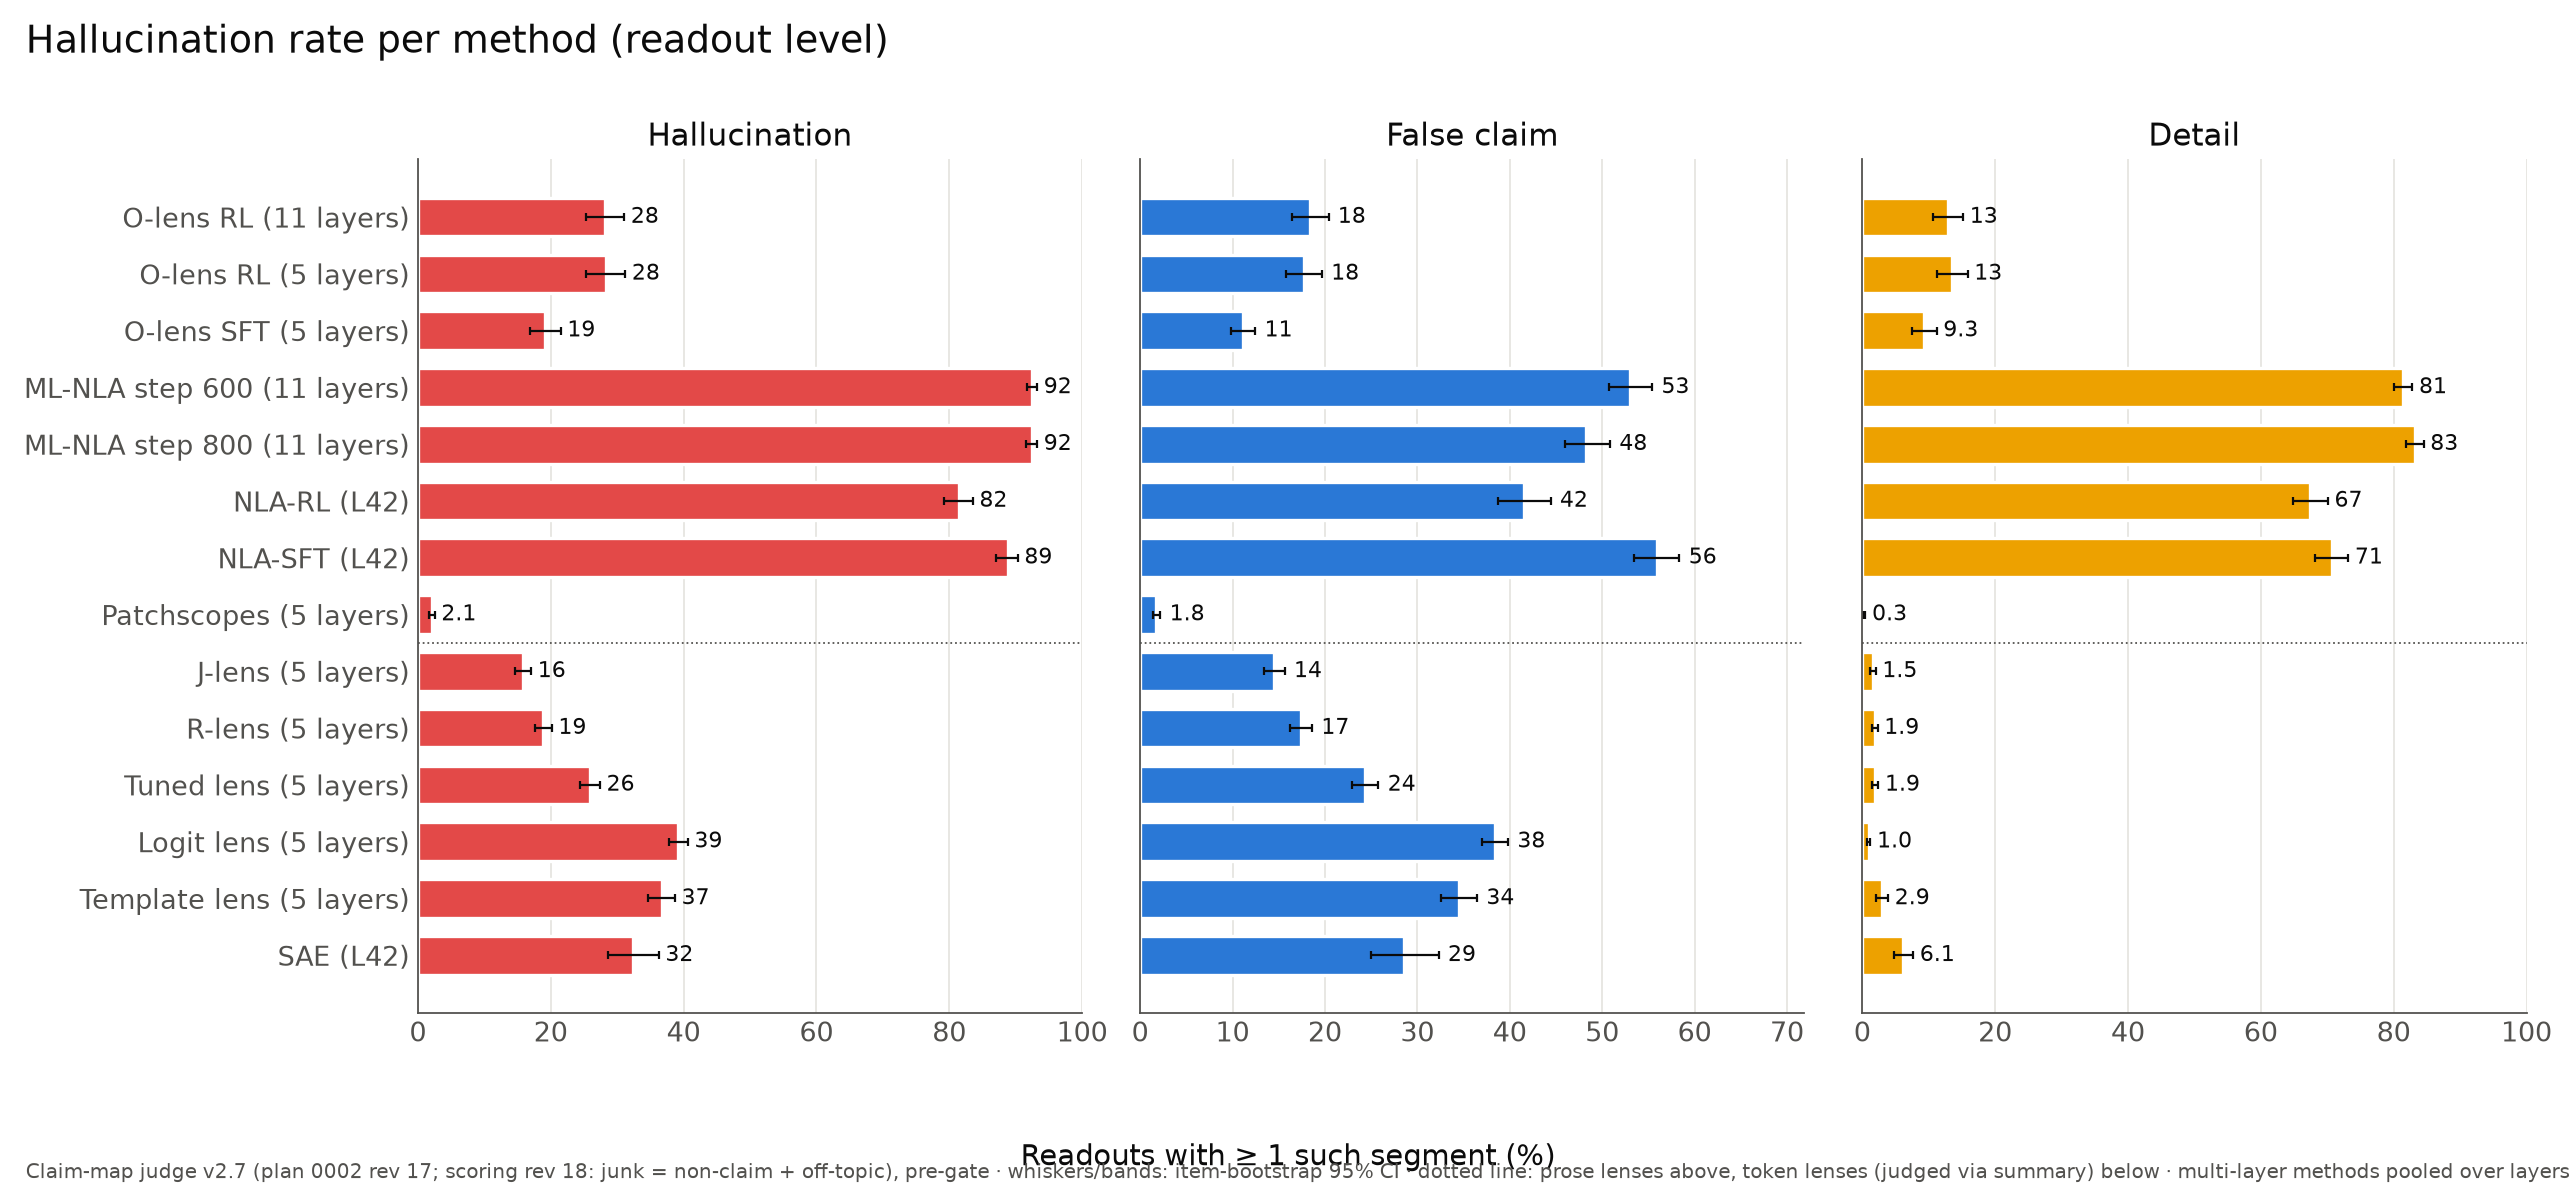
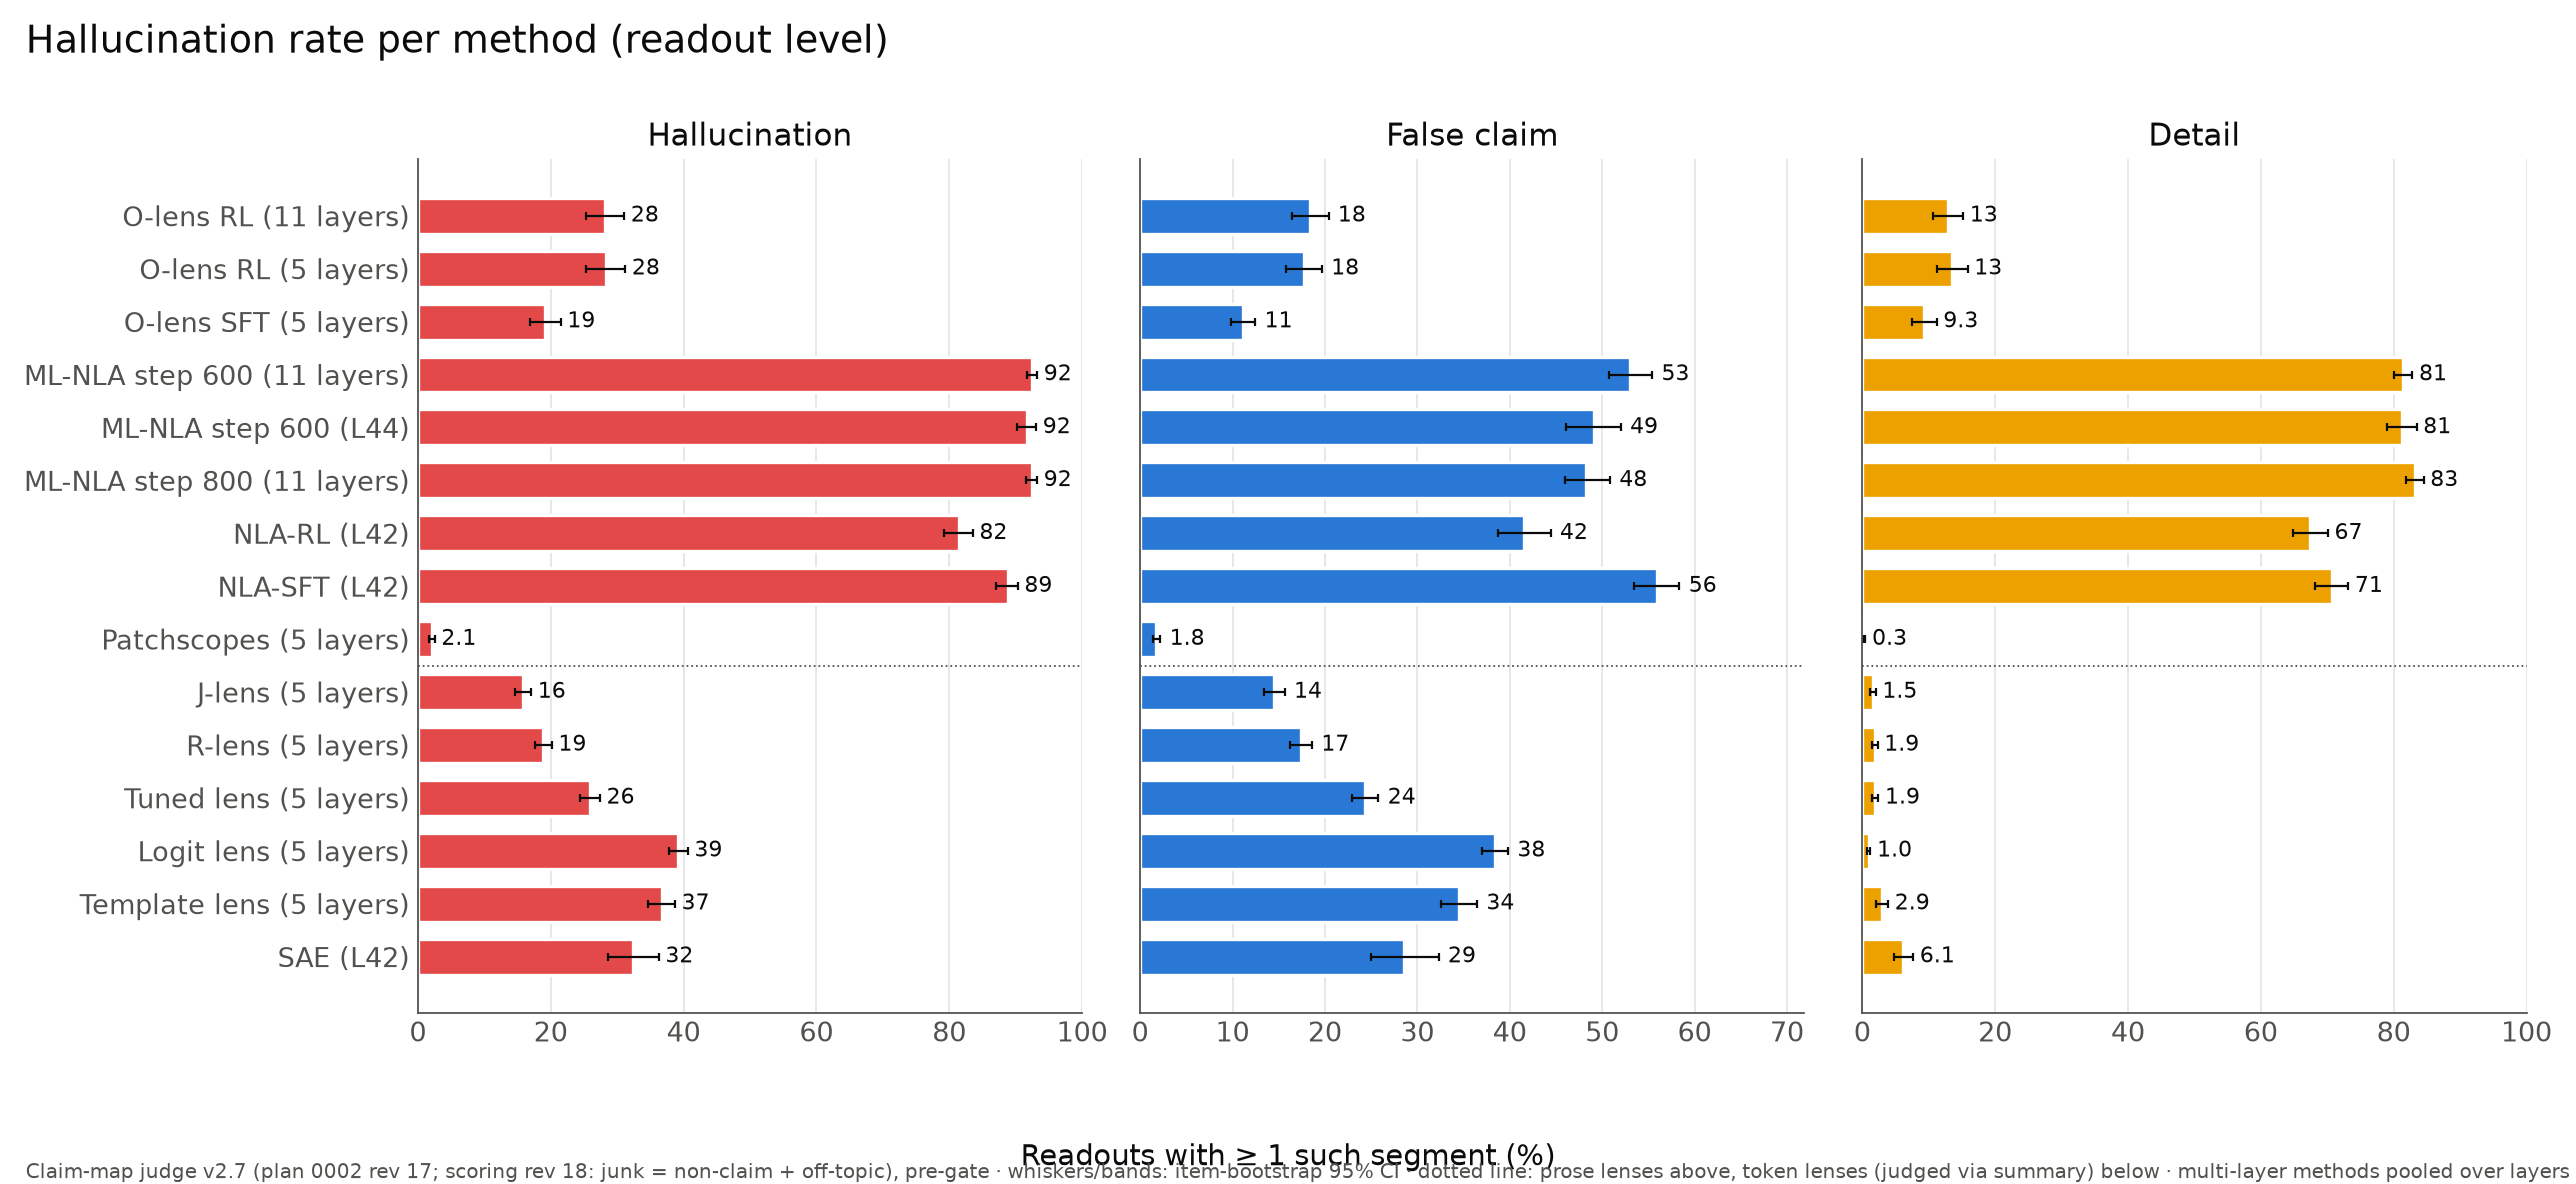
Plots: add ML-NLA step 600 at L44 as its own method row

diff --git a/scripts/plot_full_run.py b/scripts/plot_full_run.py
@@ -34,6 +34,7 @@ METHODS = [
     ("s3d-rl600", "O-lens RL (5 layers)", "prose"),
     ("s3d-sft251", "O-lens SFT (5 layers)", "prose"),
     ("mlnla-rl600-all11", "ML-NLA step 600 (11 layers)", "prose"),
+    ("mlnla-rl600-all11@44", "ML-NLA step 600 (L44)", "prose"),
     ("mlnla-rl2-800-all11", "ML-NLA step 800 (11 layers)", "prose"),
     ("nla-rl-L42", "NLA-RL (L42)", "prose"),
     ("nla-sft-L42", "NLA-SFT (L42)", "prose"),
@@ -69,6 +70,13 @@ LAYER_ARMS = [
     ("mlnla-rl600-all11", "ML-NLA step 600", "#eb6834"),
     ("mlnla-rl2-800-all11", "ML-NLA step 800", "#1baf7a"),
 ]
+
+
+def block_of(arm: str) -> dict:
+    """``arm`` or ``arm@layer`` (one layer of a multi-layer arm) -> its metrics block."""
+    name, _, layer = arm.partition("@")
+    s = summary(name)
+    return s["by_layer"][layer] if layer else s["overall"]
 
 
 def summary(arm: str) -> dict:
@@ -245,7 +253,7 @@ def main() -> None:
     ap.add_argument("--out", default=str(ROOT / "plots" / "full_run_v2.7"))
     out = Path(ap.parse_args().out)
     out.mkdir(parents=True, exist_ok=True)
-    data = [summary(a)["overall"] for a, _, _ in METHODS]
+    data = [block_of(a) for a, _, _ in METHODS]
     ylab = "Readouts with ≥ 1 such segment (%)"
     panels(
         data,
@@ -298,7 +306,7 @@ def headline(out: Path) -> None:
     lower is better), with false-claim and detail rates as markers."""
     rows = []
     for arm, label, group in METHODS:
-        o = summary(arm)["overall"]
+        o = block_of(arm)
         rows.append(
             (
                 label,
